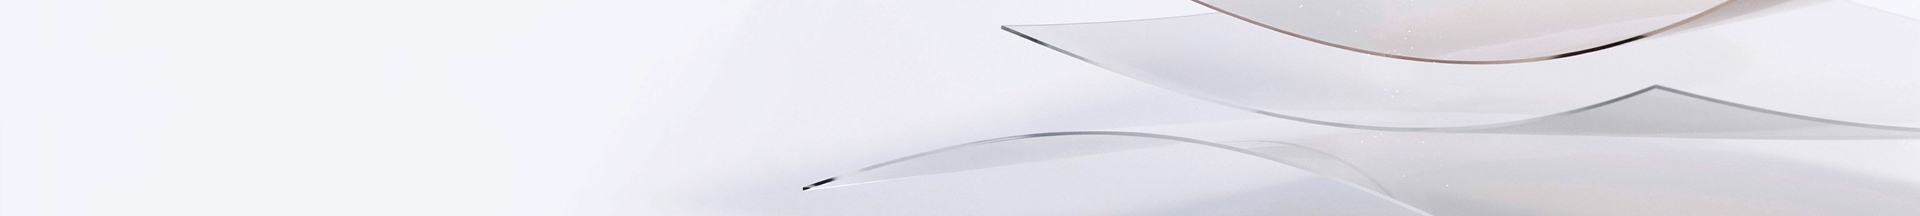
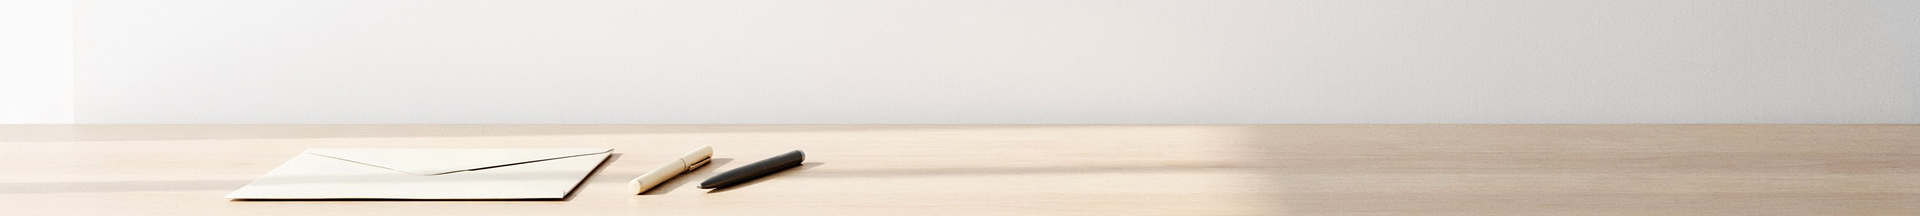
충돌여부체크

diff --git a/html/sub4-1.html b/html/sub4-1.html
@@ -3,7 +3,7 @@
 <head>
     <meta charset="UTF-8">
     <meta name="viewport" content="width=device-width, initial-scale=1.0">
-    <title>온밤정신건강의학과|스트레스검사</title>
+    <title>온밤정신건강의학과|FAQ</title>
     <link href="https://hangeul.pstatic.net/hangeul_static/css/nanum-myeongjo.css" rel="stylesheet"> 
     <link rel="stylesheet" href="../css/substyle.css">
     <link rel="stylesheet" href="../css/common.css">
@@ -119,7 +119,7 @@
             </div>
         </header>
         <figure class="sub-img">
-            <img src="../img/gnb3topimg.jpg">
+            <img src="../img/gnb4topimg.jpg">
         </figure>
 
         <div class="sub-guide-box">

diff --git a/html/sub4-2.html b/html/sub4-2.html
@@ -119,7 +119,7 @@
             </div>
         </header>
         <figure class="sub-img">
-            <img src="../img/gnb3topimg.jpg">
+            <img src="../img/gnb4topimg.jpg">
         </figure>
 
         <div class="sub-guide-box">

diff --git a/html/sub4-3.html b/html/sub4-3.html
@@ -119,7 +119,7 @@
             </div>
         </header>
         <figure class="sub-img">
-            <img src="../img/gnb3topimg.jpg">
+            <img src="../img/gnb4topimg.jpg">
         </figure>
 
         <div class="sub-guide-box">
